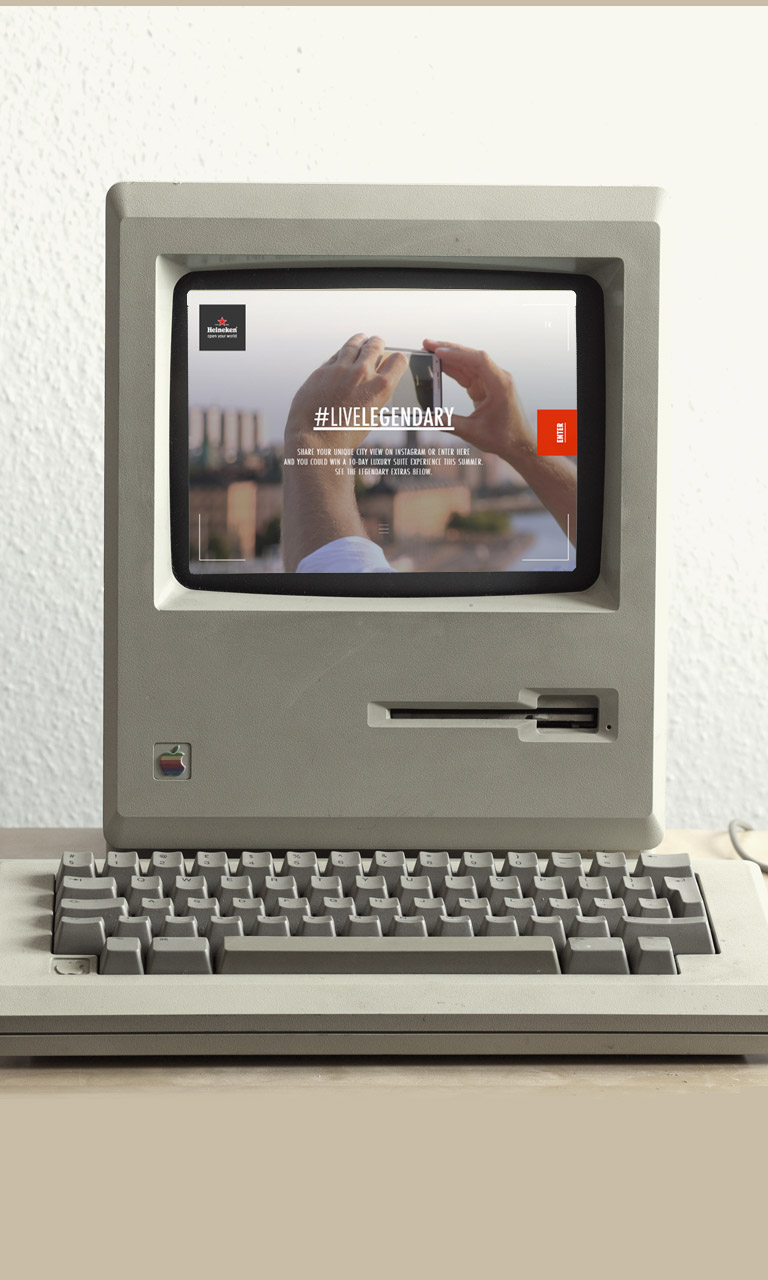
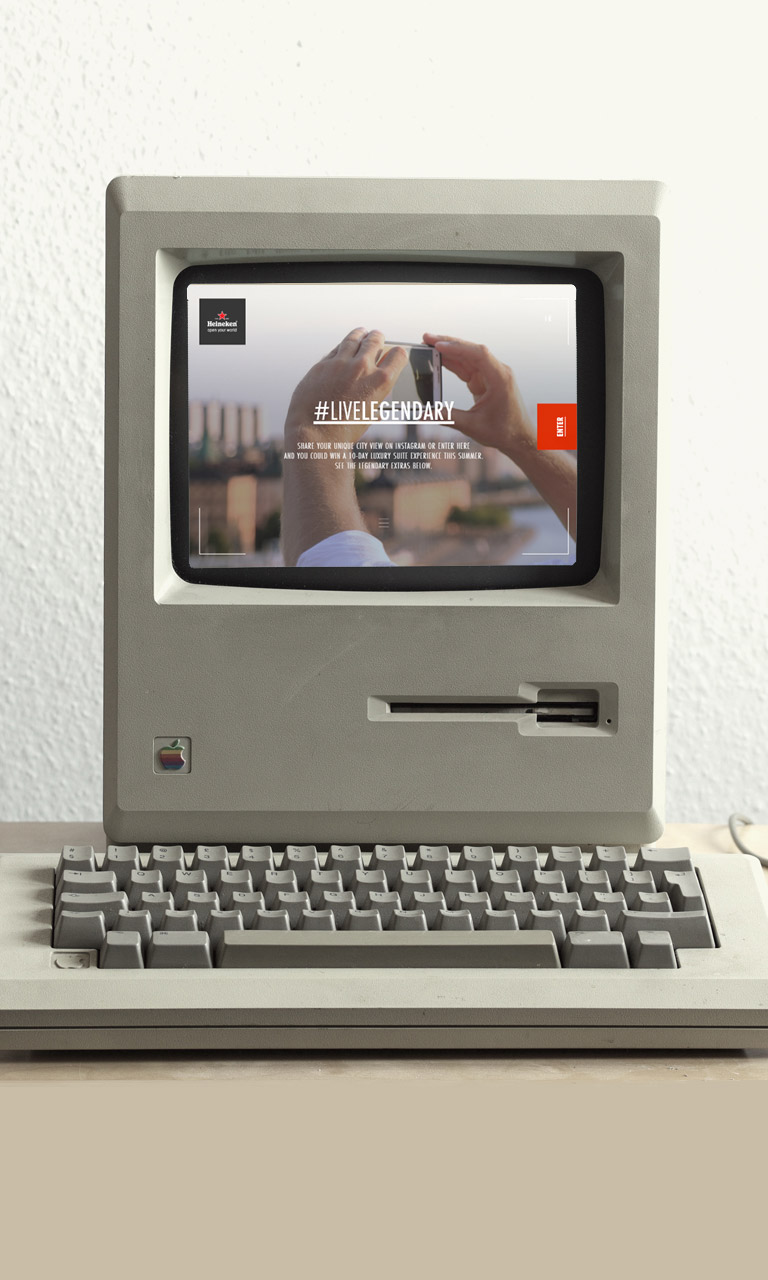
Adjusted mobile images

diff --git a/src/components/App/App.js b/src/components/App/App.js
@@ -20,14 +20,17 @@ const AppContainer = styledComponents.div`
   overflow: auto;
   color: ${colours.black};
   background: ${({ backgroundImages, }) => `url(${backgroundImages.mobile})`};
-  background-size: cover;
+  background-color: ${colours.brown};
+  background-size: contain;
+  background-repeat: no-repeat;
   background-position: 50% 0;
 
   ${media.min.tablet`
     background-image: ${({ backgroundImages, }) => backgroundImages.tablet ? `url(${backgroundImages.tablet})` : null};
+    background-size: cover;    
+    background-position: 0 50%;
   `}${media.min.desktop`
     background-image: ${({ backgroundImages, }) => backgroundImages.desktop ? `url(${backgroundImages.desktop})` : null};
-    background-position: 0 50%;
   `}
 `;
 

diff --git a/src/components/CarouselItem/CarouselItem.js b/src/components/CarouselItem/CarouselItem.js
@@ -12,15 +12,16 @@ const CarouselBackground = styledComponents.div`
   height: 100%;
   width: 100%;
   background-image: ${({ backgroundImages, }) => `url(${backgroundImages.mobile})`};
-  background-size: cover;
+  background-size: contain;
   background-repeat: no-repeat;
   background-position: 50% 0;
 
   ${media.min.tablet`
     background-image: ${({ backgroundImages, }) => backgroundImages.tablet ? `url(${backgroundImages.tablet})` : null};
+    background-size: cover;
+    background-position: 0 50%;
   `}${media.min.desktop`
     background-image: ${({ backgroundImages, }) => backgroundImages.desktop ? `url(${backgroundImages.desktop})` : null};
-    background-position: 0 50%;
   `}
 `;
 

diff --git a/src/theme/colours.js b/src/theme/colours.js
@@ -1,6 +1,7 @@
 const colours = {
   black: '#222',
   blue: '#003973',
+  brown: '#c9bda7',
   white: '#fff',
 };
 
